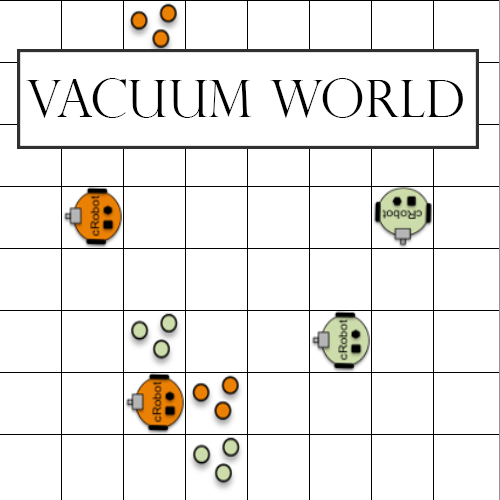
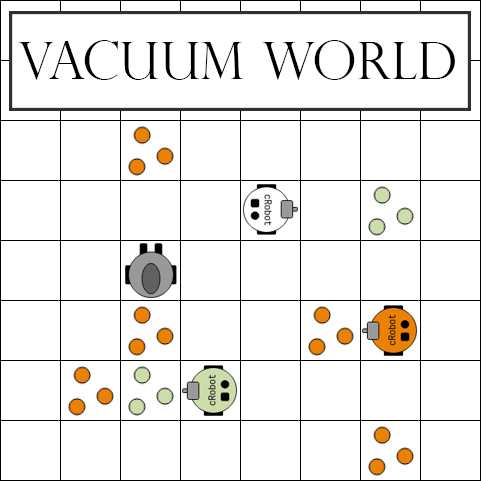
updated starting interface and simulation clock

Changed region(s): [[0.0, 0.0, 1.0, 1.0], [0.0, 0.343, 0.0312, 0.4054]]

diff --git a/vacuumworld/vwv.py b/vacuumworld/vwv.py
@@ -41,6 +41,7 @@ ROOT_FONT = "Verdana 10 bold" #font.Font(family='Helvetica', size=36, weight='bo
 BUTTON_PATH = PATH + "/res/"
 LOCATION_AGENT_IMAGES_PATH = PATH + "/res/locations/agent"
 LOCATION_DIRT_IMAGES_PATH = PATH + "/res/locations/dirt"
+MAIN_MENU_IMAGE_PATH = PATH + "/res/start_menu.png"
 DEFAULT_LOCATION_SIZE = 60
 DEFAULT_GRID_SIZE = 480
 BACKGROUND_COLOUR_SIDE = 'white'
@@ -106,18 +107,25 @@ class VWMainMenu(tk.Frame):
     def __init__(self, root, _start, _exit):
         super(VWMainMenu,self).__init__(root)
         self.configure(background='white')
-        self.canvas = tk.Canvas(self, width=480,
-                                height=480,
+        WIDTH = 480
+        HEIGHT = 480
+        self.canvas = tk.Canvas(self, width=WIDTH + 1,
+                                height=HEIGHT + 1,
                                 bd=0,
                                 highlightthickness=0)
-        self.canvas.create_rectangle(0,0,481,481,fill="blue") # placeholder for image
+        #self.canvas.create_rectangle(0,0,481,481,fill="blue") # placeholder for image
+        
+        self.image_tk = tk.PhotoImage(file=MAIN_MENU_IMAGE_PATH)
+        self.image = self.canvas.create_image(WIDTH/2,HEIGHT/2,image=self.image_tk)
+        
+        self.button_frame = tk.Frame(self)
+        
+        #self.canvas.create_window(WIDTH/2, HEIGHT-100, window =  self.button_frame)
         self.canvas.pack()
-
         self.buttons = {}
 
         button_image = ImageTk.PhotoImage(Image.open(BUTTON_PATH + 'button.png'))
-        self.button_frame = tk.Frame(self)
-
+        
         self.buttons['start'] = VWButton(self.button_frame, button_image, _start, 'start')
         self.buttons['exit'] = VWButton(self.button_frame, button_image, _exit, 'exit')
         self.buttons['start'].pack('left')
@@ -757,7 +765,7 @@ def run(_minds, skip = False, play = False, speed = 0, load = None):
 
         play_event = Event()
 
-        env_thread = Thread(target=simulate, daemon=False)
+        env_thread = Thread(target=simulate, daemon=True)
         env_thread.start()
         
         #set up simulation speed
@@ -776,16 +784,11 @@ def run(_minds, skip = False, play = False, speed = 0, load = None):
 
 #TODO, be able to select user mind from gui
 
-TIME_SPLIT = 1000
-
-
 def simulate():
     try:
         def wait():
-            _t1 = time.time() * 1000
             play_event.wait()
             is_set =  play_event.is_set()
-            print("wait()_time:", time.time() * 1000 - _t1)
             return is_set
 
         
@@ -794,30 +797,48 @@ def simulate():
         global user_mind
 
         while wait() and not finish:
-            if reset:
-                global env
-                env = init_environment(grid, minds, user_mind)
-                grid.cycle = 0
-                reset = False
+            #with TimeRecord(str(TIME_STEP)): #ms:
+            with Sleep(TIME_STEP*1000):
+                if reset:
+                    global env
+                    env = init_environment(grid, minds, user_mind)
+                    grid.cycle = 0
+                    reset = False
+                
+                print("------------ cycle {} ------------ ".format(grid.cycle))
+                
+                env.evolveEnvironment()
             
-            _t1 = time.time() * 1000
-            #fix schedular bug...? hmm
-            _TIME_STEP = TIME_STEP/TIME_SPLIT
-            for i in range(TIME_SPLIT):
-                time.sleep(_TIME_STEP)
-            print("sleep_time:", time.time() * 1000 - _t1)
-            
-            print("------------ cycle {} ------------ ".format(grid.cycle))
-            #for k,v in grid.state.items():
-            #    print(k,v)
-            
-            _t1 = time.time() * 1000
-            env.evolveEnvironment()
-            print("evolve_time:", time.time() * 1000 - _t1)
+                grid.cycle += 1
+                if not finish:
+                    root.after(0, main_interface._redraw)
 
-            grid.cycle += 1
-            if not finish:
-                root.after(0, main_interface._redraw)
-            
     except:
         _error()
+        
+        
+t = lambda: int(round(time.time() * 1000))
+
+class Sleep:
+    
+    def __init__(self, wait):
+        self.wait = wait
+       
+    def __enter__(self):
+        self.start = t()
+        self.finish = self.start + self.wait
+    
+    def __exit__(self, type, value, traceback):
+        while t() < self.finish:
+            time.sleep(1./1000.)  
+            
+class TimeRecord:
+    
+    def __init__(self, name):
+        self._name = name
+    
+    def __enter__(self,):
+        self._t = time.time() * 1000
+    
+    def __exit__(self, type, value, traceback):
+        print("{0} time: {1}".format(self._name, time.time()  * 1000 - self._t))

diff --git a/vacuumworld/untitled1.py b/vacuumworld/untitled1.py
@@ -1,0 +1,37 @@
+#!/usr/bin/env python3
+# -*- coding: utf-8 -*-
+"""
+Created on Fri Sep 13 15:49:45 2019
+
+@author: ben
+"""
+
+from time import perf_counter, sleep, time
+
+import time
+
+
+t = lambda: int(round(time.time() * 1000))
+
+    
+class Clock:
+    
+    def __init__(self, fps):
+        self.start = perf_counter()
+        self.frame_length = 1/fps
+        
+    @property
+    def tick(self):
+        return (perf_counter() - self.start)/self.frame_length
+
+    def sleep(self):
+        r = self.tick + 1
+        while self.tick < r:
+            sleep(1/1000)   
+            
+c = Clock(60)
+
+t1 = t()
+with Sleep(0.1):
+    pass
+print(t() - t1)
